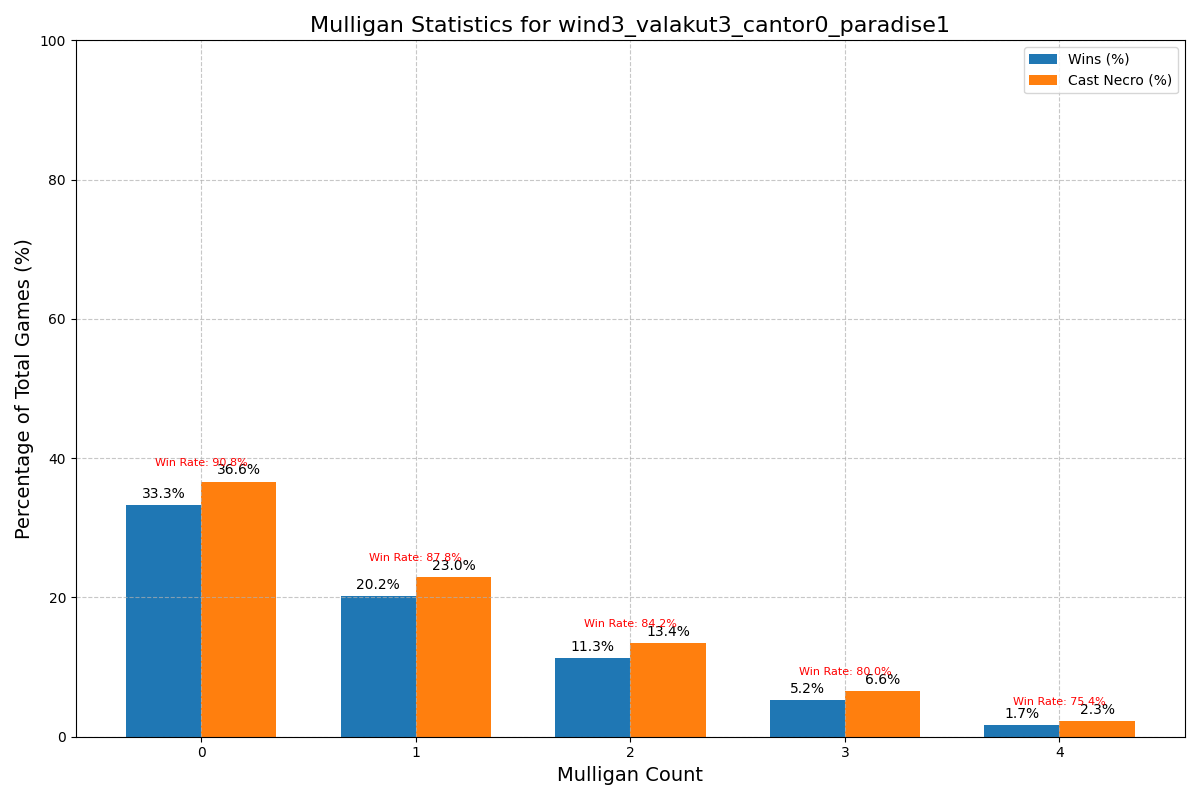
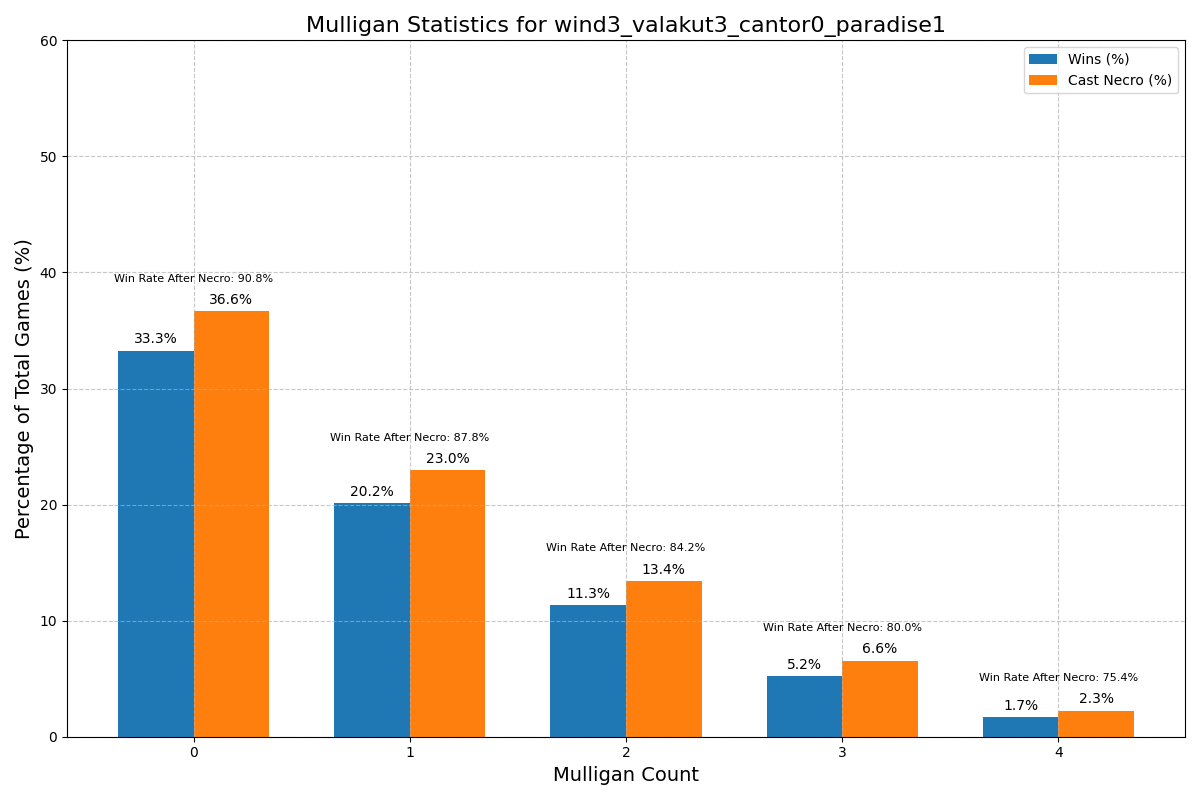
マリガン統計グラフの縦軸の範囲を0~60%に変更してデータをより見やすく

diff --git a/plot_results.py b/plot_results.py
@@ -57,8 +57,8 @@ def plot_mulligan_stats():
     ax.set_xticklabels(mulligan_counts)
     ax.legend()
     
-    # Y軸の範囲を0-100%に設定
-    ax.set_ylim(0, 100)
+    # Y軸の範囲を0-60%に設定（データがより見やすくなるように）
+    ax.set_ylim(0, 60)
     
     # 各棒グラフの上に値を表示
     for i, (rect1, rect2) in enumerate(zip(rects1, rects2)):
